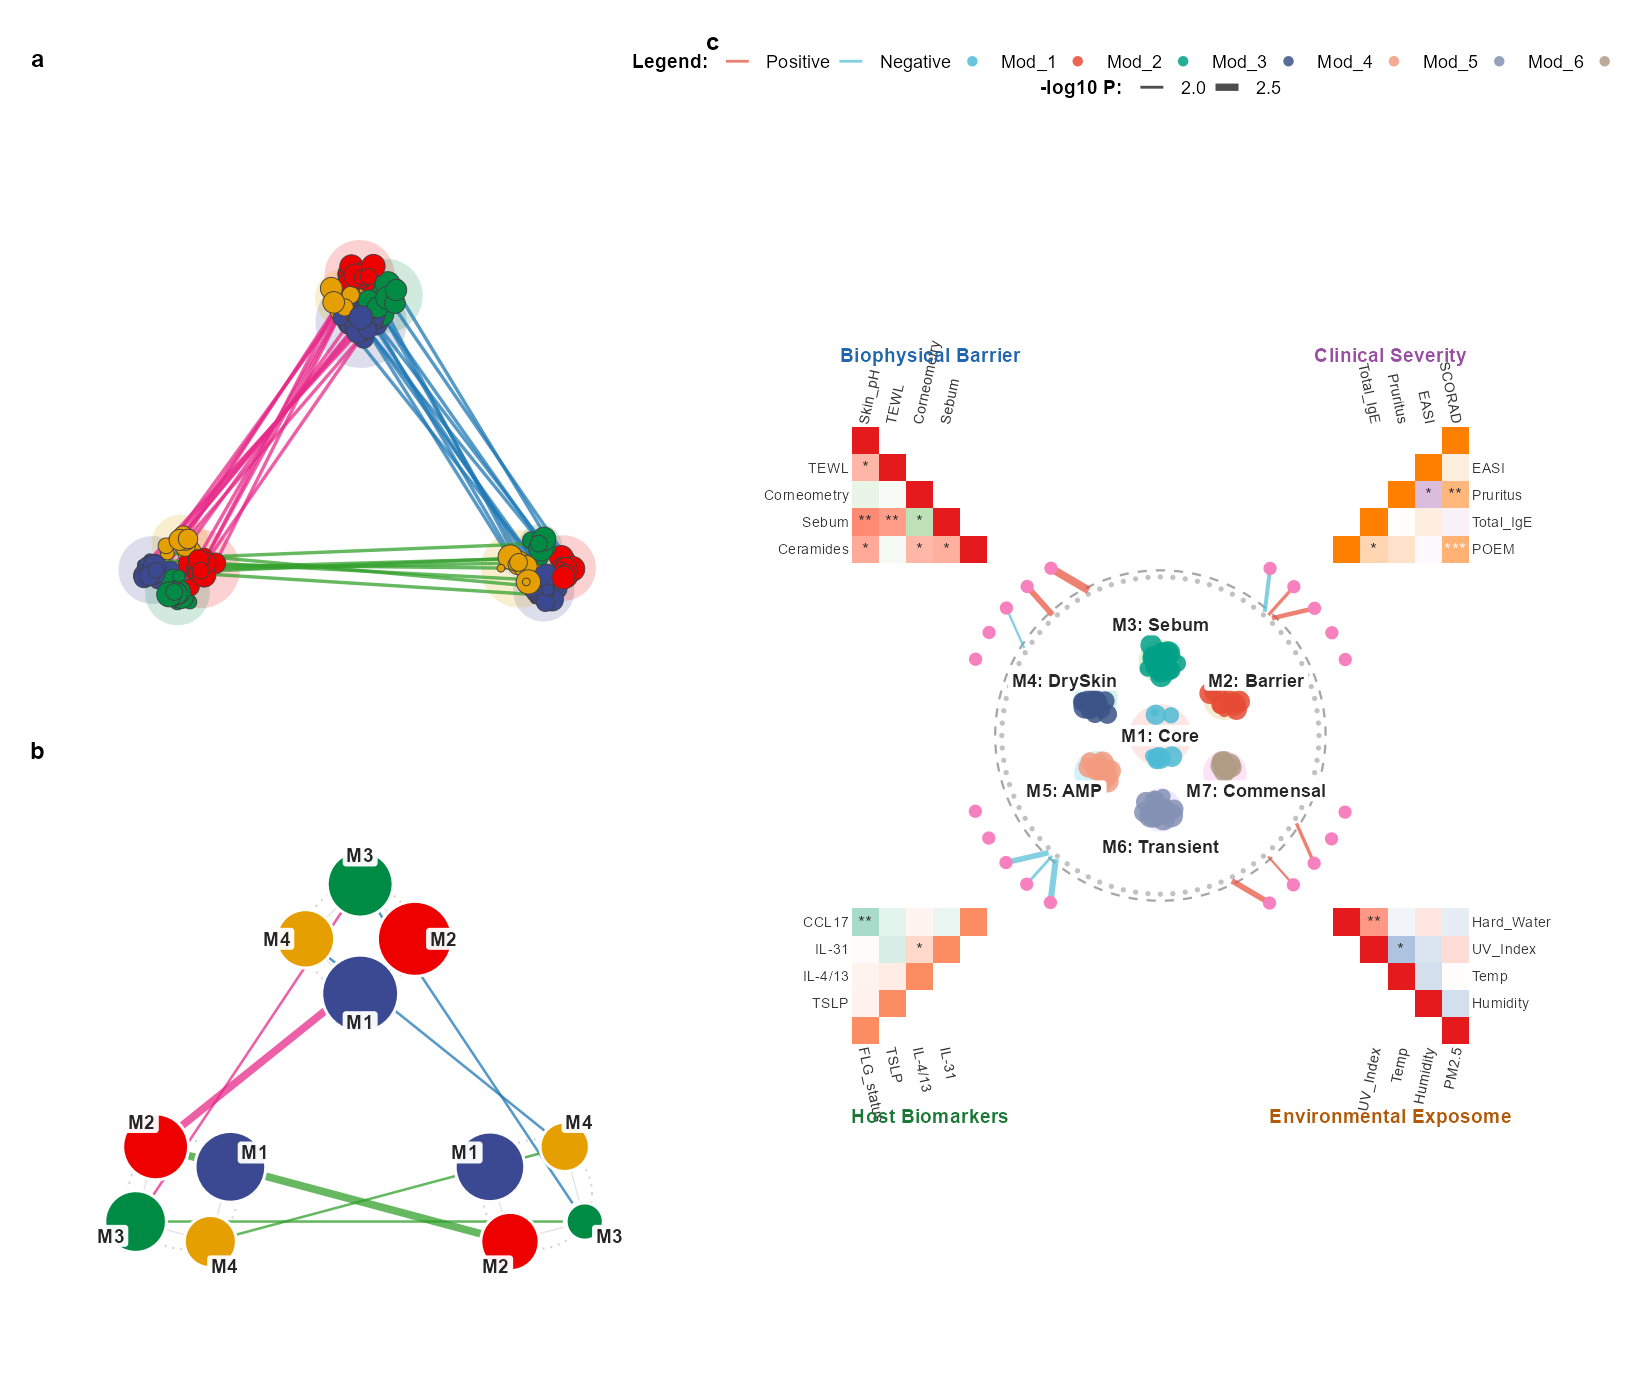
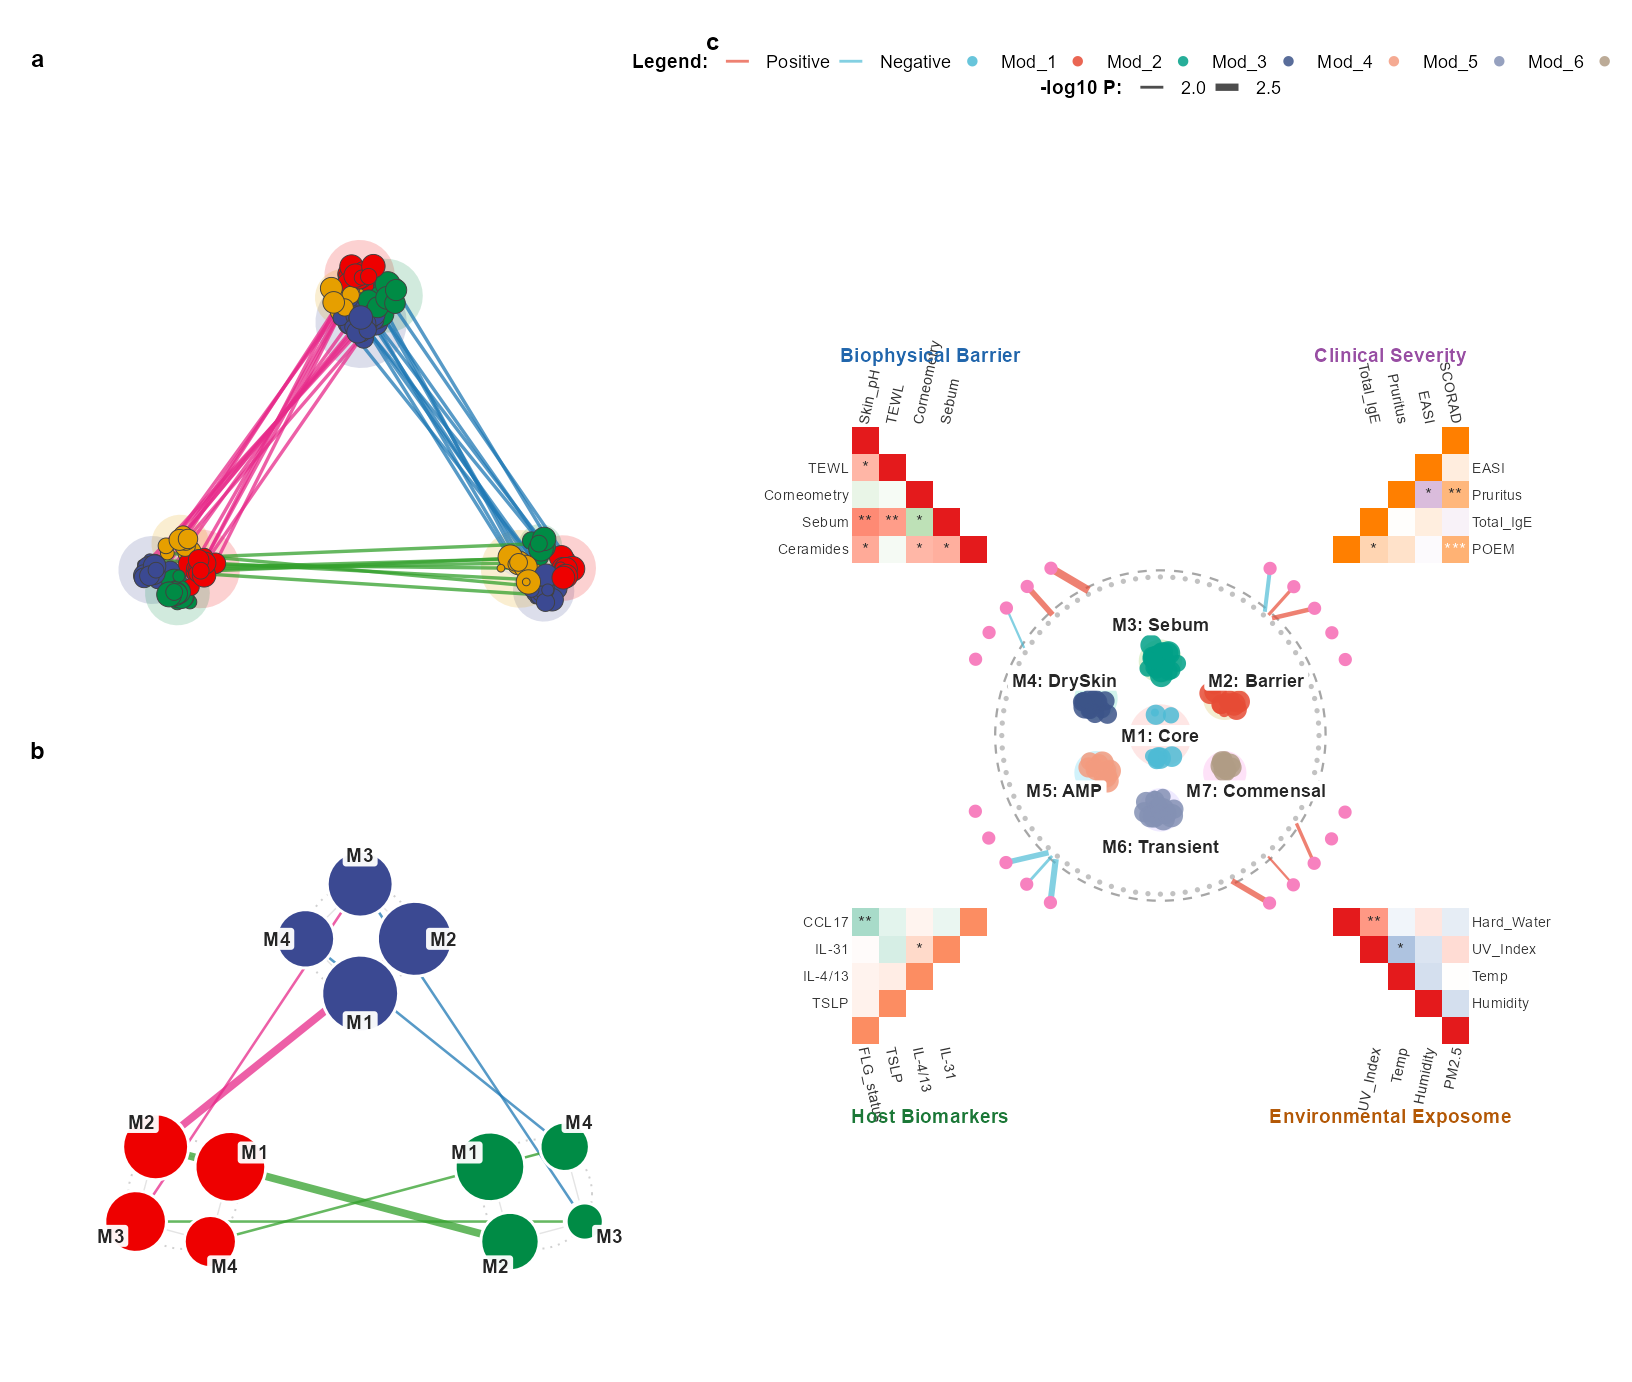
Add group coloring support to cross-network graph and update module ring style

Changed region(s): [[0.1562, 0.6223, 0.2812, 0.7156], [0.2812, 0.809, 0.375, 0.9334], [0.0625, 0.809, 0.1562, 0.9334]]

diff --git a/docs/articles/microbiome-mgwas.html b/docs/articles/microbiome-mgwas.html
@@ -428,18 +428,19 @@ edges, and conserved cross-group links at either node level
 <p><img src="microbiome-mgwas_files/figure-html/cross-network-graphs-1.png" class="r-plt" alt="" width="768" style="display: block; margin: auto;"></p>
 </div>
 <div class="section level4">
-<h4 id="style-2-module-level-ring-preservation">Style 2: Module-Level Ring Preservation<a class="anchor" aria-label="anchor" href="#style-2-module-level-ring-preservation"></a>
+<h4 id="style-2-module-level-ring-preservation-colored-by-group">Style 2: Module-Level Ring Preservation (Colored by Group)<a class="anchor" aria-label="anchor" href="#style-2-module-level-ring-preservation-colored-by-group"></a>
 </h4>
 <div class="sourceCode" id="cb9"><pre class="downlit sourceCode r">
-<code class="sourceCode R"><span><span class="co"># Module-level ring topology with member halos and conserved links</span></span>
+<code class="sourceCode R"><span><span class="co"># Module-level ring topology colored by experimental groups with conserved links</span></span>
 <span><span class="va">p_mod</span> <span class="op">&lt;-</span> <span class="fu"><a href="../reference/cliplot_cross_network_graph.html">cliplot_cross_network_graph</a></span><span class="op">(</span></span>
 <span>  nodes       <span class="op">=</span> <span class="va">demo_net</span><span class="op">$</span><span class="va">nodes</span>,</span>
 <span>  edges       <span class="op">=</span> <span class="va">demo_net</span><span class="op">$</span><span class="va">edges</span>,</span>
 <span>  cross_edges <span class="op">=</span> <span class="va">demo_net</span><span class="op">$</span><span class="va">cross_edges</span>,</span>
 <span>  level       <span class="op">=</span> <span class="st">"module"</span>,</span>
+<span>  color_by    <span class="op">=</span> <span class="st">"group"</span>,</span>
 <span>  preset      <span class="op">=</span> <span class="st">"nature"</span>,</span>
 <span>  scifig      <span class="op">=</span> <span class="cn">TRUE</span>,</span>
-<span>  title       <span class="op">=</span> <span class="st">"Cross-Network Module Preservation Rings (Module Ring Style)"</span></span>
+<span>  title       <span class="op">=</span> <span class="st">"Cross-Network Module Preservation Rings (Colored by Group)"</span></span>
 <span><span class="op">)</span></span>
 <span><span class="va">p_mod</span></span></code></pre></div>
 <p><img src="microbiome-mgwas_files/figure-html/cross-network-module-1.png" class="r-plt" alt="" width="816" style="display: block; margin: auto;"></p>
